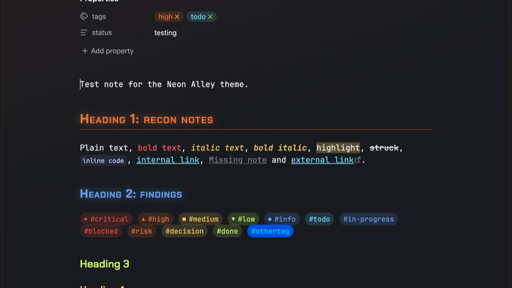
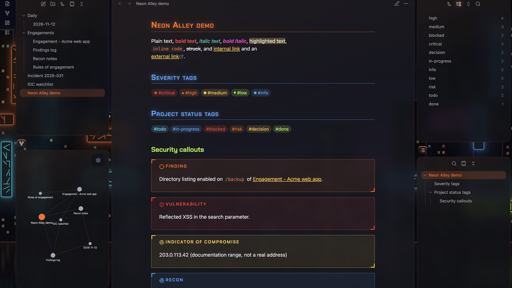
Neon Alley 1.0.1

diff --git a/src/theme.src.css b/src/theme.src.css
@@ -1183,13 +1183,22 @@ body.is-translucent:not(.is-fullscreen):is(.theme-dark, .theme-light).na-retro :
 :is(.theme-dark, .theme-light) :is(li, .HyperMD-task-line)[data-task="-"] {
   --checklist-done-color: var(--na-faint);
 }
+/* cancelled tasks: faded and struck through (Obsidian 1.15 only styles
+   "x" as done by itself) */
+:is(.theme-dark, .theme-light) li[data-task="-"],
+:is(.theme-dark, .theme-light) .HyperMD-task-line[data-task="-"] {
+  color: var(--na-faint);
+  text-decoration: line-through;
+}
 
-:is(.theme-dark, .theme-light) input.task-list-item-checkbox:is([data-task="/"], [data-task="!"], [data-task="?"], [data-task=">"], [data-task="-"]) {
+/* The status sits on the checkbox in older Obsidian, and on the list item
+   or editor line in Obsidian 1.15 and later; both are matched. */
+:is(.theme-dark, .theme-light) :is(input.task-list-item-checkbox:is([data-task="/"], [data-task="!"], [data-task="?"], [data-task=">"], [data-task="-"]), li:is([data-task="/"], [data-task="!"], [data-task="?"], [data-task=">"], [data-task="-"]) > input.task-list-item-checkbox, .HyperMD-task-line:is([data-task="/"], [data-task="!"], [data-task="?"], [data-task=">"], [data-task="-"]) input.task-list-item-checkbox) {
   --na-task: var(--na-blue);
   background-color: color-mix(in srgb, var(--na-task) 20%, transparent);
   border-color: var(--na-task);
 }
-:is(.theme-dark, .theme-light) input.task-list-item-checkbox:is([data-task="/"], [data-task="!"], [data-task="?"], [data-task=">"], [data-task="-"])::after {
+:is(.theme-dark, .theme-light) :is(input.task-list-item-checkbox:is([data-task="/"], [data-task="!"], [data-task="?"], [data-task=">"], [data-task="-"]), li:is([data-task="/"], [data-task="!"], [data-task="?"], [data-task=">"], [data-task="-"]) > input.task-list-item-checkbox, .HyperMD-task-line:is([data-task="/"], [data-task="!"], [data-task="?"], [data-task=">"], [data-task="-"]) input.task-list-item-checkbox)::after {
   -webkit-mask-image: none;
   mask-image: none;
   background: none;
@@ -1204,16 +1213,16 @@ body.is-translucent:not(.is-fullscreen):is(.theme-dark, .theme-light).na-retro :
   position: absolute;
   inset: 0;
 }
-:is(.theme-dark, .theme-light) input.task-list-item-checkbox[data-task="/"] { --na-task: var(--na-blue); }
-:is(.theme-dark, .theme-light) input.task-list-item-checkbox[data-task="/"]::after { content: "/"; }
-:is(.theme-dark, .theme-light) input.task-list-item-checkbox[data-task="!"] { --na-task: var(--na-red); }
-:is(.theme-dark, .theme-light) input.task-list-item-checkbox[data-task="!"]::after { content: "!"; }
-:is(.theme-dark, .theme-light) input.task-list-item-checkbox[data-task="?"] { --na-task: var(--na-gold); }
-:is(.theme-dark, .theme-light) input.task-list-item-checkbox[data-task="?"]::after { content: "?"; }
-:is(.theme-dark, .theme-light) input.task-list-item-checkbox[data-task=">"] { --na-task: var(--na-cyan); }
-:is(.theme-dark, .theme-light) input.task-list-item-checkbox[data-task=">"]::after { content: ">"; }
-:is(.theme-dark, .theme-light) input.task-list-item-checkbox[data-task="-"] { --na-task: var(--na-faint); }
-:is(.theme-dark, .theme-light) input.task-list-item-checkbox[data-task="-"]::after { content: "-"; }
+:is(.theme-dark, .theme-light) :is(input.task-list-item-checkbox:is([data-task="/"]), li:is([data-task="/"]) > input.task-list-item-checkbox, .HyperMD-task-line:is([data-task="/"]) input.task-list-item-checkbox) { --na-task: var(--na-blue); }
+:is(.theme-dark, .theme-light) :is(input.task-list-item-checkbox:is([data-task="/"]), li:is([data-task="/"]) > input.task-list-item-checkbox, .HyperMD-task-line:is([data-task="/"]) input.task-list-item-checkbox)::after { content: "/"; }
+:is(.theme-dark, .theme-light) :is(input.task-list-item-checkbox:is([data-task="!"]), li:is([data-task="!"]) > input.task-list-item-checkbox, .HyperMD-task-line:is([data-task="!"]) input.task-list-item-checkbox) { --na-task: var(--na-red); }
+:is(.theme-dark, .theme-light) :is(input.task-list-item-checkbox:is([data-task="!"]), li:is([data-task="!"]) > input.task-list-item-checkbox, .HyperMD-task-line:is([data-task="!"]) input.task-list-item-checkbox)::after { content: "!"; }
+:is(.theme-dark, .theme-light) :is(input.task-list-item-checkbox:is([data-task="?"]), li:is([data-task="?"]) > input.task-list-item-checkbox, .HyperMD-task-line:is([data-task="?"]) input.task-list-item-checkbox) { --na-task: var(--na-gold); }
+:is(.theme-dark, .theme-light) :is(input.task-list-item-checkbox:is([data-task="?"]), li:is([data-task="?"]) > input.task-list-item-checkbox, .HyperMD-task-line:is([data-task="?"]) input.task-list-item-checkbox)::after { content: "?"; }
+:is(.theme-dark, .theme-light) :is(input.task-list-item-checkbox:is([data-task=">"]), li:is([data-task=">"]) > input.task-list-item-checkbox, .HyperMD-task-line:is([data-task=">"]) input.task-list-item-checkbox) { --na-task: var(--na-cyan); }
+:is(.theme-dark, .theme-light) :is(input.task-list-item-checkbox:is([data-task=">"]), li:is([data-task=">"]) > input.task-list-item-checkbox, .HyperMD-task-line:is([data-task=">"]) input.task-list-item-checkbox)::after { content: ">"; }
+:is(.theme-dark, .theme-light) :is(input.task-list-item-checkbox:is([data-task="-"]), li:is([data-task="-"]) > input.task-list-item-checkbox, .HyperMD-task-line:is([data-task="-"]) input.task-list-item-checkbox) { --na-task: var(--na-faint); }
+:is(.theme-dark, .theme-light) :is(input.task-list-item-checkbox:is([data-task="-"]), li:is([data-task="-"]) > input.task-list-item-checkbox, .HyperMD-task-line:is([data-task="-"]) input.task-list-item-checkbox)::after { content: "-"; }
 
 /* ---------- 11. Severity markers ----------
    A small shape before each severity tag, so the level reads

diff --git a/theme.css b/theme.css
@@ -1183,13 +1183,22 @@ body.is-translucent:not(.is-fullscreen):is(.theme-dark, .theme-light).na-retro :
 :is(.theme-dark, .theme-light) :is(li, .HyperMD-task-line)[data-task="-"] {
   --checklist-done-color: var(--na-faint);
 }
+/* cancelled tasks: faded and struck through (Obsidian 1.15 only styles
+   "x" as done by itself) */
+:is(.theme-dark, .theme-light) li[data-task="-"],
+:is(.theme-dark, .theme-light) .HyperMD-task-line[data-task="-"] {
+  color: var(--na-faint);
+  text-decoration: line-through;
+}
 
-:is(.theme-dark, .theme-light) input.task-list-item-checkbox:is([data-task="/"], [data-task="!"], [data-task="?"], [data-task=">"], [data-task="-"]) {
+/* The status sits on the checkbox in older Obsidian, and on the list item
+   or editor line in Obsidian 1.15 and later; both are matched. */
+:is(.theme-dark, .theme-light) :is(input.task-list-item-checkbox:is([data-task="/"], [data-task="!"], [data-task="?"], [data-task=">"], [data-task="-"]), li:is([data-task="/"], [data-task="!"], [data-task="?"], [data-task=">"], [data-task="-"]) > input.task-list-item-checkbox, .HyperMD-task-line:is([data-task="/"], [data-task="!"], [data-task="?"], [data-task=">"], [data-task="-"]) input.task-list-item-checkbox) {
   --na-task: var(--na-blue);
   background-color: color-mix(in srgb, var(--na-task) 20%, transparent);
   border-color: var(--na-task);
 }
-:is(.theme-dark, .theme-light) input.task-list-item-checkbox:is([data-task="/"], [data-task="!"], [data-task="?"], [data-task=">"], [data-task="-"])::after {
+:is(.theme-dark, .theme-light) :is(input.task-list-item-checkbox:is([data-task="/"], [data-task="!"], [data-task="?"], [data-task=">"], [data-task="-"]), li:is([data-task="/"], [data-task="!"], [data-task="?"], [data-task=">"], [data-task="-"]) > input.task-list-item-checkbox, .HyperMD-task-line:is([data-task="/"], [data-task="!"], [data-task="?"], [data-task=">"], [data-task="-"]) input.task-list-item-checkbox)::after {
   -webkit-mask-image: none;
   mask-image: none;
   background: none;
@@ -1204,16 +1213,16 @@ body.is-translucent:not(.is-fullscreen):is(.theme-dark, .theme-light).na-retro :
   position: absolute;
   inset: 0;
 }
-:is(.theme-dark, .theme-light) input.task-list-item-checkbox[data-task="/"] { --na-task: var(--na-blue); }
-:is(.theme-dark, .theme-light) input.task-list-item-checkbox[data-task="/"]::after { content: "/"; }
-:is(.theme-dark, .theme-light) input.task-list-item-checkbox[data-task="!"] { --na-task: var(--na-red); }
-:is(.theme-dark, .theme-light) input.task-list-item-checkbox[data-task="!"]::after { content: "!"; }
-:is(.theme-dark, .theme-light) input.task-list-item-checkbox[data-task="?"] { --na-task: var(--na-gold); }
-:is(.theme-dark, .theme-light) input.task-list-item-checkbox[data-task="?"]::after { content: "?"; }
-:is(.theme-dark, .theme-light) input.task-list-item-checkbox[data-task=">"] { --na-task: var(--na-cyan); }
-:is(.theme-dark, .theme-light) input.task-list-item-checkbox[data-task=">"]::after { content: ">"; }
-:is(.theme-dark, .theme-light) input.task-list-item-checkbox[data-task="-"] { --na-task: var(--na-faint); }
-:is(.theme-dark, .theme-light) input.task-list-item-checkbox[data-task="-"]::after { content: "-"; }
+:is(.theme-dark, .theme-light) :is(input.task-list-item-checkbox:is([data-task="/"]), li:is([data-task="/"]) > input.task-list-item-checkbox, .HyperMD-task-line:is([data-task="/"]) input.task-list-item-checkbox) { --na-task: var(--na-blue); }
+:is(.theme-dark, .theme-light) :is(input.task-list-item-checkbox:is([data-task="/"]), li:is([data-task="/"]) > input.task-list-item-checkbox, .HyperMD-task-line:is([data-task="/"]) input.task-list-item-checkbox)::after { content: "/"; }
+:is(.theme-dark, .theme-light) :is(input.task-list-item-checkbox:is([data-task="!"]), li:is([data-task="!"]) > input.task-list-item-checkbox, .HyperMD-task-line:is([data-task="!"]) input.task-list-item-checkbox) { --na-task: var(--na-red); }
+:is(.theme-dark, .theme-light) :is(input.task-list-item-checkbox:is([data-task="!"]), li:is([data-task="!"]) > input.task-list-item-checkbox, .HyperMD-task-line:is([data-task="!"]) input.task-list-item-checkbox)::after { content: "!"; }
+:is(.theme-dark, .theme-light) :is(input.task-list-item-checkbox:is([data-task="?"]), li:is([data-task="?"]) > input.task-list-item-checkbox, .HyperMD-task-line:is([data-task="?"]) input.task-list-item-checkbox) { --na-task: var(--na-gold); }
+:is(.theme-dark, .theme-light) :is(input.task-list-item-checkbox:is([data-task="?"]), li:is([data-task="?"]) > input.task-list-item-checkbox, .HyperMD-task-line:is([data-task="?"]) input.task-list-item-checkbox)::after { content: "?"; }
+:is(.theme-dark, .theme-light) :is(input.task-list-item-checkbox:is([data-task=">"]), li:is([data-task=">"]) > input.task-list-item-checkbox, .HyperMD-task-line:is([data-task=">"]) input.task-list-item-checkbox) { --na-task: var(--na-cyan); }
+:is(.theme-dark, .theme-light) :is(input.task-list-item-checkbox:is([data-task=">"]), li:is([data-task=">"]) > input.task-list-item-checkbox, .HyperMD-task-line:is([data-task=">"]) input.task-list-item-checkbox)::after { content: ">"; }
+:is(.theme-dark, .theme-light) :is(input.task-list-item-checkbox:is([data-task="-"]), li:is([data-task="-"]) > input.task-list-item-checkbox, .HyperMD-task-line:is([data-task="-"]) input.task-list-item-checkbox) { --na-task: var(--na-faint); }
+:is(.theme-dark, .theme-light) :is(input.task-list-item-checkbox:is([data-task="-"]), li:is([data-task="-"]) > input.task-list-item-checkbox, .HyperMD-task-line:is([data-task="-"]) input.task-list-item-checkbox)::after { content: "-"; }
 
 /* ---------- 11. Severity markers ----------
    A small shape before each severity tag, so the level reads

diff --git a/CHANGELOG.md b/CHANGELOG.md
@@ -1,5 +1,14 @@
 # Changelog
 
+## 1.0.1 (12 November 2026)
+
+- Mission-status task markers (`[/]`, `[!]`, `[?]`, `[>]`, `[-]`) work
+  again in Obsidian 1.15, which moved the task status from the checkbox
+  to its line; both are now matched.
+- Cancelled tasks (`[-]`) are faded and struck through again.
+- New screenshots, taken in a demo vault: a full-window view with
+  wallpaper, and Retro, light and Cold Forge views.
+
 ## 1.0.0 (12 November 2026)
 
 First public release.

diff --git a/README.md b/README.md
@@ -1,11 +1,11 @@
 # Neon Alley
 
+![Neon Alley, dark mode, Glass structure](images/01-dark-neon-alley-glass.png)
+
 An Obsidian theme that looks like a city street at night: dark asphalt,
 traffic-cone orange and a row of neon signs. It has HUD-style callouts
 for security work, colour-coded severity tags and a retro, framed
 layout with buttons that press in.
-
-![Neon Alley, dark mode, Glass structure](images/01-dark-neon-alley-glass.png)
 
 ## How this was made
 
